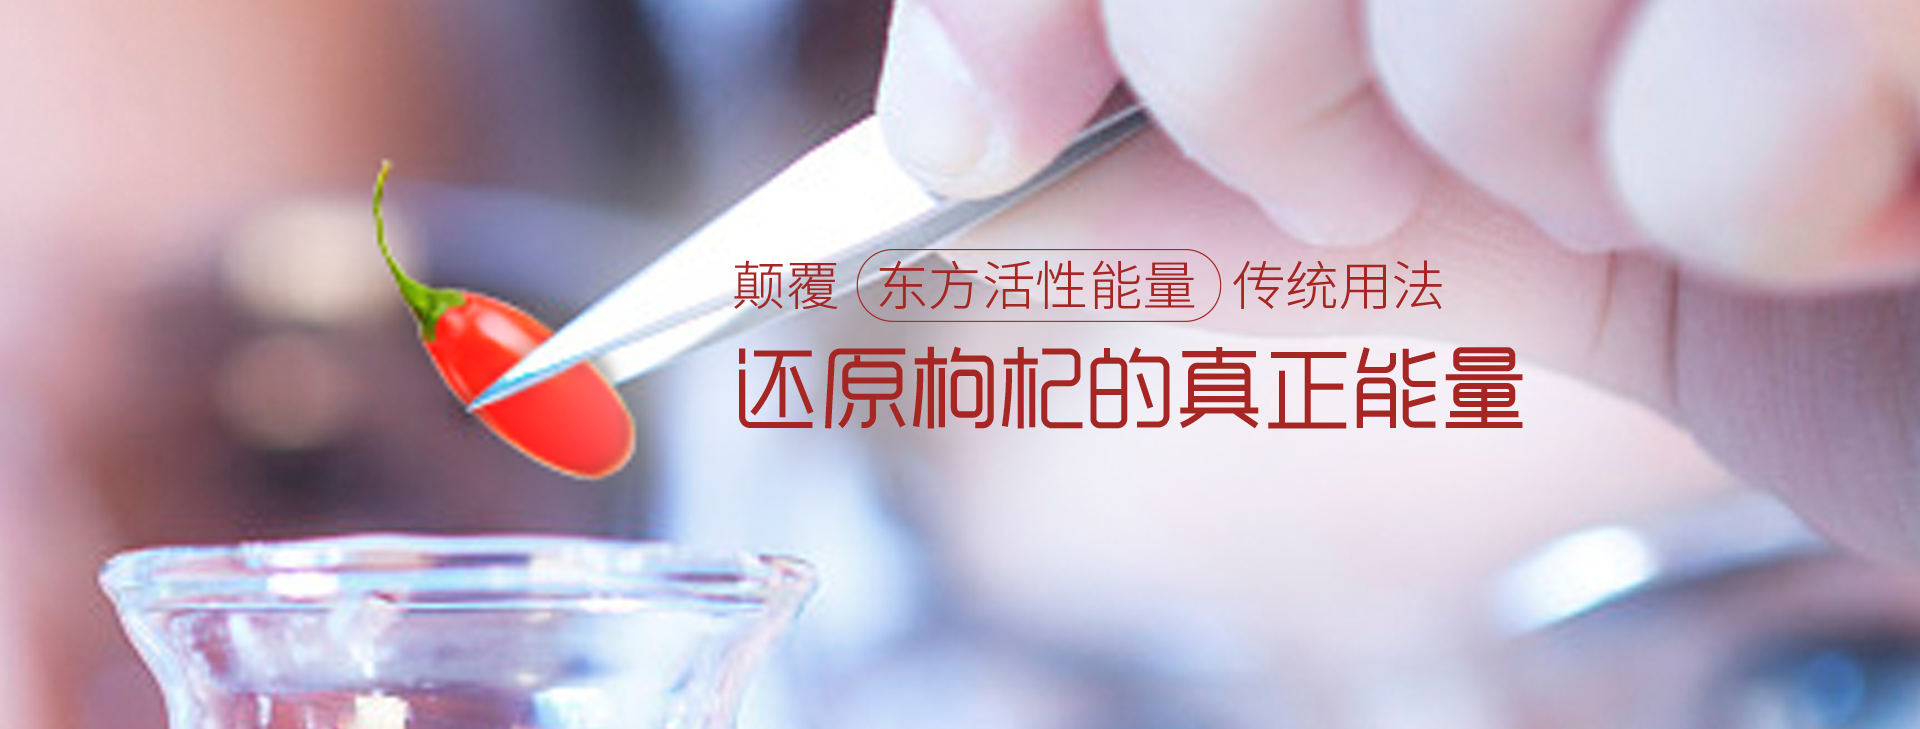
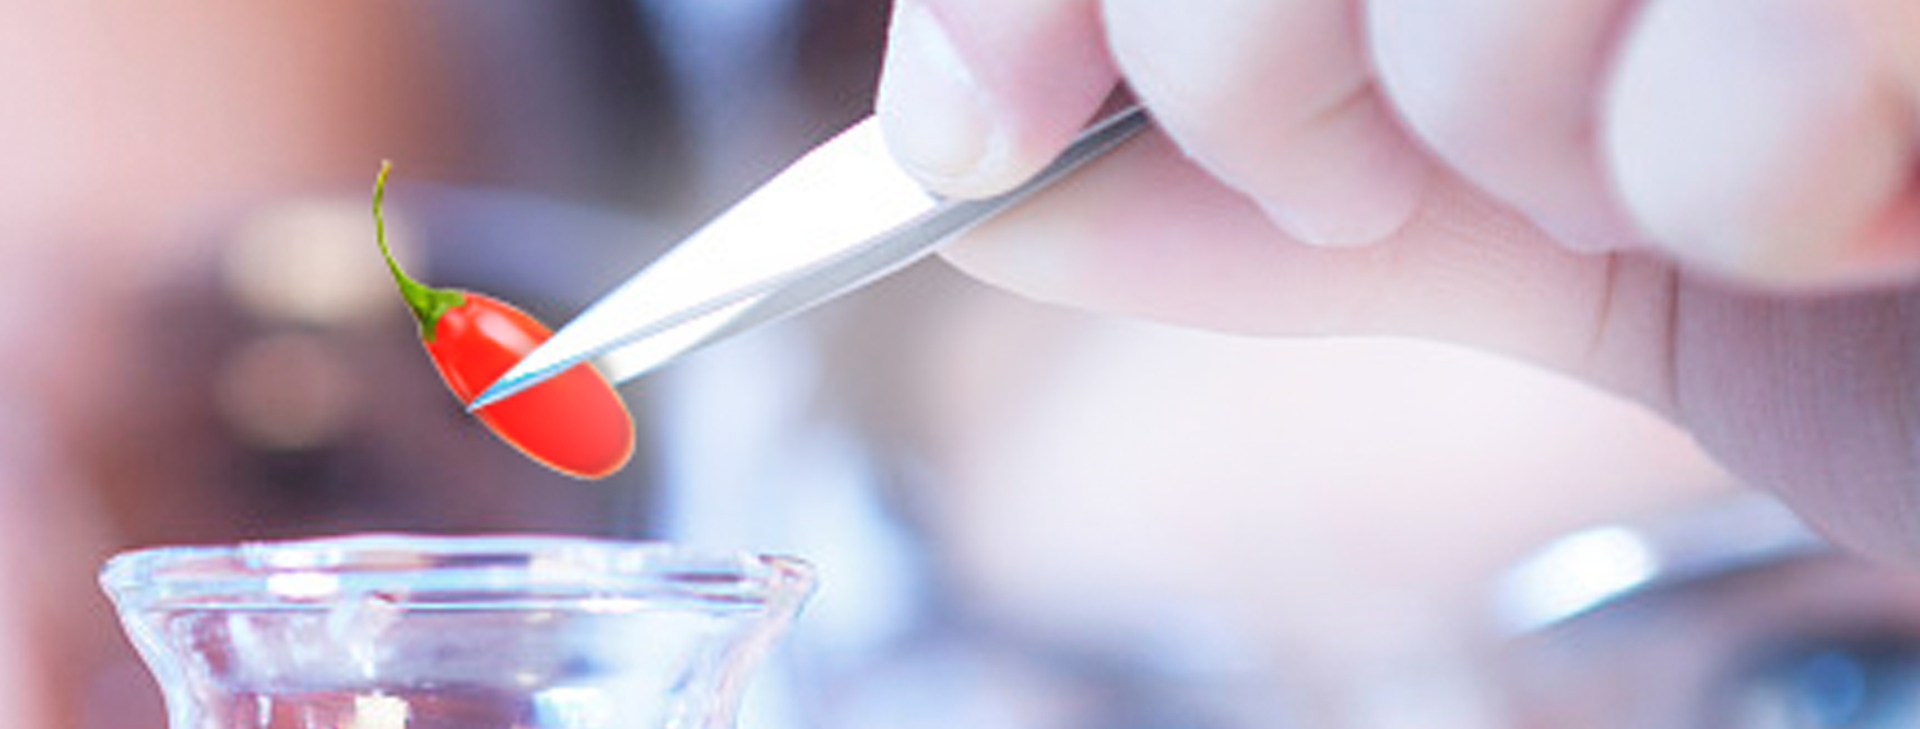
updata content
updata content

Changed region(s): [[0.375, 0.4527, 0.8125, 0.6036], [0.375, 0.332, 0.75, 0.4527]]

diff --git a/zaokan/js/wow.min.js b/zaokan/js/wow.min.js
@@ -1,0 +1,2 @@
+/*! WOW - v1.1.2 - 2015-04-07
+* Copyright (c) 2015 Matthieu Aussaguel; Licensed MIT */(function(){var a,b,c,d,e,f=function(a,b){return function(){return a.apply(b,arguments)}},g=[].indexOf||function(a){for(var b=0,c=this.length;c>b;b++)if(b in this&&this[b]===a)return b;return-1};b=function(){function a(){}return a.prototype.extend=function(a,b){var c,d;for(c in b)d=b[c],null==a[c]&&(a[c]=d);return a},a.prototype.isMobile=function(a){return/Android|webOS|iPhone|iPad|iPod|BlackBerry|IEMobile|Opera Mini/i.test(a)},a.prototype.createEvent=function(a,b,c,d){var e;return null==b&&(b=!1),null==c&&(c=!1),null==d&&(d=null),null!=document.createEvent?(e=document.createEvent("CustomEvent"),e.initCustomEvent(a,b,c,d)):null!=document.createEventObject?(e=document.createEventObject(),e.eventType=a):e.eventName=a,e},a.prototype.emitEvent=function(a,b){return null!=a.dispatchEvent?a.dispatchEvent(b):b in(null!=a)?a[b]():"on"+b in(null!=a)?a["on"+b]():void 0},a.prototype.addEvent=function(a,b,c){return null!=a.addEventListener?a.addEventListener(b,c,!1):null!=a.attachEvent?a.attachEvent("on"+b,c):a[b]=c},a.prototype.removeEvent=function(a,b,c){return null!=a.removeEventListener?a.removeEventListener(b,c,!1):null!=a.detachEvent?a.detachEvent("on"+b,c):delete a[b]},a.prototype.innerHeight=function(){return"innerHeight"in window?window.innerHeight:document.documentElement.clientHeight},a}(),c=this.WeakMap||this.MozWeakMap||(c=function(){function a(){this.keys=[],this.values=[]}return a.prototype.get=function(a){var b,c,d,e,f;for(f=this.keys,b=d=0,e=f.length;e>d;b=++d)if(c=f[b],c===a)return this.values[b]},a.prototype.set=function(a,b){var c,d,e,f,g;for(g=this.keys,c=e=0,f=g.length;f>e;c=++e)if(d=g[c],d===a)return void(this.values[c]=b);return this.keys.push(a),this.values.push(b)},a}()),a=this.MutationObserver||this.WebkitMutationObserver||this.MozMutationObserver||(a=function(){function a(){"undefined"!=typeof console&&null!==console&&console.warn("MutationObserver is not supported by your browser."),"undefined"!=typeof console&&null!==console&&console.warn("WOW.js cannot detect dom mutations, please call .sync() after loading new content.")}return a.notSupported=!0,a.prototype.observe=function(){},a}()),d=this.getComputedStyle||function(a){return this.getPropertyValue=function(b){var c;return"float"===b&&(b="styleFloat"),e.test(b)&&b.replace(e,function(a,b){return b.toUpperCase()}),(null!=(c=a.currentStyle)?c[b]:void 0)||null},this},e=/(\-([a-z]){1})/g,this.WOW=function(){function e(a){null==a&&(a={}),this.scrollCallback=f(this.scrollCallback,this),this.scrollHandler=f(this.scrollHandler,this),this.resetAnimation=f(this.resetAnimation,this),this.start=f(this.start,this),this.scrolled=!0,this.config=this.util().extend(a,this.defaults),this.animationNameCache=new c,this.wowEvent=this.util().createEvent(this.config.boxClass)}return e.prototype.defaults={boxClass:"wow",animateClass:"animated",offset:0,mobile:!0,live:!0,callback:null},e.prototype.init=function(){var a;return this.element=window.document.documentElement,"interactive"===(a=document.readyState)||"complete"===a?this.start():this.util().addEvent(document,"DOMContentLoaded",this.start),this.finished=[]},e.prototype.start=function(){var b,c,d,e;if(this.stopped=!1,this.boxes=function(){var a,c,d,e;for(d=this.element.querySelectorAll("."+this.config.boxClass),e=[],a=0,c=d.length;c>a;a++)b=d[a],e.push(b);return e}.call(this),this.all=function(){var a,c,d,e;for(d=this.boxes,e=[],a=0,c=d.length;c>a;a++)b=d[a],e.push(b);return e}.call(this),this.boxes.length)if(this.disabled())this.resetStyle();else for(e=this.boxes,c=0,d=e.length;d>c;c++)b=e[c],this.applyStyle(b,!0);return this.disabled()||(this.util().addEvent(window,"scroll",this.scrollHandler),this.util().addEvent(window,"resize",this.scrollHandler),this.interval=setInterval(this.scrollCallback,50)),this.config.live?new a(function(a){return function(b){var c,d,e,f,g;for(g=[],c=0,d=b.length;d>c;c++)f=b[c],g.push(function(){var a,b,c,d;for(c=f.addedNodes||[],d=[],a=0,b=c.length;b>a;a++)e=c[a],d.push(this.doSync(e));return d}.call(a));return g}}(this)).observe(document.body,{childList:!0,subtree:!0}):void 0},e.prototype.stop=function(){return this.stopped=!0,this.util().removeEvent(window,"scroll",this.scrollHandler),this.util().removeEvent(window,"resize",this.scrollHandler),null!=this.interval?clearInterval(this.interval):void 0},e.prototype.sync=function(){return a.notSupported?this.doSync(this.element):void 0},e.prototype.doSync=function(a){var b,c,d,e,f;if(null==a&&(a=this.element),1===a.nodeType){for(a=a.parentNode||a,e=a.querySelectorAll("."+this.config.boxClass),f=[],c=0,d=e.length;d>c;c++)b=e[c],g.call(this.all,b)<0?(this.boxes.push(b),this.all.push(b),this.stopped||this.disabled()?this.resetStyle():this.applyStyle(b,!0),f.push(this.scrolled=!0)):f.push(void 0);return f}},e.prototype.show=function(a){return this.applyStyle(a),a.className=a.className+" "+this.config.animateClass,null!=this.config.callback&&this.config.callback(a),this.util().emitEvent(a,this.wowEvent),this.util().addEvent(a,"animationend",this.resetAnimation),this.util().addEvent(a,"oanimationend",this.resetAnimation),this.util().addEvent(a,"webkitAnimationEnd",this.resetAnimation),this.util().addEvent(a,"MSAnimationEnd",this.resetAnimation),a},e.prototype.applyStyle=function(a,b){var c,d,e;return d=a.getAttribute("data-wow-duration"),c=a.getAttribute("data-wow-delay"),e=a.getAttribute("data-wow-iteration"),this.animate(function(f){return function(){return f.customStyle(a,b,d,c,e)}}(this))},e.prototype.animate=function(){return"requestAnimationFrame"in window?function(a){return window.requestAnimationFrame(a)}:function(a){return a()}}(),e.prototype.resetStyle=function(){var a,b,c,d,e;for(d=this.boxes,e=[],b=0,c=d.length;c>b;b++)a=d[b],e.push(a.style.visibility="visible");return e},e.prototype.resetAnimation=function(a){var b;return a.type.toLowerCase().indexOf("animationend")>=0?(b=a.target||a.srcElement,b.className=b.className.replace(this.config.animateClass,"").trim()):void 0},e.prototype.customStyle=function(a,b,c,d,e){return b&&this.cacheAnimationName(a),a.style.visibility=b?"hidden":"visible",c&&this.vendorSet(a.style,{animationDuration:c}),d&&this.vendorSet(a.style,{animationDelay:d}),e&&this.vendorSet(a.style,{animationIterationCount:e}),this.vendorSet(a.style,{animationName:b?"none":this.cachedAnimationName(a)}),a},e.prototype.vendors=["moz","webkit"],e.prototype.vendorSet=function(a,b){var c,d,e,f;d=[];for(c in b)e=b[c],a[""+c]=e,d.push(function(){var b,d,g,h;for(g=this.vendors,h=[],b=0,d=g.length;d>b;b++)f=g[b],h.push(a[""+f+c.charAt(0).toUpperCase()+c.substr(1)]=e);return h}.call(this));return d},e.prototype.vendorCSS=function(a,b){var c,e,f,g,h,i;for(h=d(a),g=h.getPropertyCSSValue(b),f=this.vendors,c=0,e=f.length;e>c;c++)i=f[c],g=g||h.getPropertyCSSValue("-"+i+"-"+b);return g},e.prototype.animationName=function(a){var b;try{b=this.vendorCSS(a,"animation-name").cssText}catch(c){b=d(a).getPropertyValue("animation-name")}return"none"===b?"":b},e.prototype.cacheAnimationName=function(a){return this.animationNameCache.set(a,this.animationName(a))},e.prototype.cachedAnimationName=function(a){return this.animationNameCache.get(a)},e.prototype.scrollHandler=function(){return this.scrolled=!0},e.prototype.scrollCallback=function(){var a;return!this.scrolled||(this.scrolled=!1,this.boxes=function(){var b,c,d,e;for(d=this.boxes,e=[],b=0,c=d.length;c>b;b++)a=d[b],a&&(this.isVisible(a)?this.show(a):e.push(a));return e}.call(this),this.boxes.length||this.config.live)?void 0:this.stop()},e.prototype.offsetTop=function(a){for(var b;void 0===a.offsetTop;)a=a.parentNode;for(b=a.offsetTop;a=a.offsetParent;)b+=a.offsetTop;return b},e.prototype.isVisible=function(a){var b,c,d,e,f;return c=a.getAttribute("data-wow-offset")||this.config.offset,f=window.pageYOffset,e=f+Math.min(this.element.clientHeight,this.util().innerHeight())-c,d=this.offsetTop(a),b=d+a.clientHeight,e>=d&&b>=f},e.prototype.util=function(){return null!=this._util?this._util:this._util=new b},e.prototype.disabled=function(){return!this.config.mobile&&this.util().isMobile(navigator.userAgent)},e}()}).call(this);

diff --git a/zaokan/ddfgm.html b/zaokan/ddfgm.html
@@ -8,6 +8,7 @@
   <link rel="stylesheet" href="css/swiper.min.css">
   <link rel="stylesheet" href="css/bootstrap.css">
   <link rel="stylesheet" type="text/css" href="css/common.css">
+  <link rel="stylesheet" type="text/css" href="css/animate.min.css">
 <!--[if lte IE 9]>
   <script src="js/html5shiv.min.js"></script>
   <script src="js/respond.min.js"></script>
@@ -94,8 +95,6 @@
   color: #a62624;font-size: 24px;}
   .ddfgm-thr{ letter-spacing: 3px;
   color: #a62624;font-size: 24px;margin:20px 0 57px;}
-  .hxnl-ons{width:100%}
-  .hxnl-ons img{width:100%;max-width:100%;}
 
   .ddfgm-two{width:100%}
   .ddfgm-two img{width:100%;max-width:100%;}
@@ -105,9 +104,29 @@
 
 
 
+<style type="text/css">
+  .ddfgm-t{height:729px;width:100%;background:url(img/h31.png) no-repeat center center;}
+  .ddfgm-t .container{display:table;height:100%;}
+  .ddfgm-t .container .row{display:table-cell;vertical-align:middle;}
+  .ddfgm-t .container .row .rowsss{display:table;float:right;}
+  .ddfgm-t .container .row .ddfgm-twos-dd{margin-top:24px;} 
+</style>
 
 
-<div class="hxnl-ons"><img src="img/h31.png" /></div>
+<div class="ddfgm-t">
+    <div class="container">
+      <div class="row">
+        <div class="rowsss">
+          <div class="ddfgm-twos-d wow fadeInDown"><img src="img/h193.png" class="img-responsive" style="margin:0 auto;display:inline-block;" /></div>
+          <div class="ddfgm-twos-dd wow fadeInDown"><img src="img/h194.png" class="img-responsive" style="margin:0 auto;display:inline-block;" /></div>
+        </div>
+      </div>
+    </div>
+</div>
+
+
+
+
 
 
 
@@ -285,7 +304,45 @@
   <div class="text-center ddfgm-six-cc"><img src="img/h44.png" class="img-responsive" style="margin:0 auto;" /></div>
 </div>
 
-<div class="ddfgm-two"><img src="img/h35.png" /></div>
+
+
+
+
+
+
+
+
+<style type="text/css">
+  .ddfgm-twwooo{height:795px;width:100%;background:url(img/h35.png) no-repeat center center;}
+  .ddfgm-twwooo .container{display:table;height:100%;}
+  .ddfgm-twwooo .container .row{display:table-cell;vertical-align:middle;}
+  .ddfgm-twwooo .container .row .rowsss{display:table;float:left;margin-top:-278px;}
+  .ddfgm-twwooo .container .row .ddfgm-twos-dd{margin-top:24px;} 
+</style>
+
+
+<div class="ddfgm-twwooo">
+    <div class="container">
+      <div class="row">
+        <div class="rowsss">
+          <div class="ddfgm-twos-d"><img src="img/h187.png" class="img-responsive" style="margin:0 auto;display:inline-block;" /></div>
+          <div class="ddfgm-twos-dd"><img src="img/h188.png" class="img-responsive" style="margin:0 auto;display:inline-block;" /></div>
+        </div>
+      </div>
+    </div>
+</div>
+
+
+
+
+
+
+
+
+
+
+
+
 
 <div class="ddfgm-sev">
   <div class="text-center ddfgm-sev-f">每一瓶早康•480鲜杞原液均由480颗鲜枸杞浓缩而成，相当于24000颗干枸杞（20kg）的全部</div>
@@ -294,7 +351,42 @@
   <div class="text-center ddfgm-sev-ff">图示仅原浆营养即在干果营养2倍以上，原液营养为在原浆基础上再进行分离精萃。</div>
 </div>
 
-<div class="ddfgm-two"><img src="img/h36.png" /></div>
+
+
+
+
+
+
+
+
+<style type="text/css">
+  .ddfgm-twwoooo{height:749px;width:100%;background:url(img/h36.png) no-repeat center center;}
+  .ddfgm-twwoooo .container{display:table;height:100%;}
+  .ddfgm-twwoooo .container .row{display:table-cell;vertical-align:middle;}
+  .ddfgm-twwoooo .container .row .rowsss{display:table;float:left;margin-top:-278px;}
+  .ddfgm-twwoooo .container .row .ddfgm-twos-dd{margin-top:24px;} 
+</style>
+
+
+<div class="ddfgm-twwoooo">
+    <div class="container">
+      <div class="row">
+        <div class="rowsss">
+          <div class="ddfgm-twos-d"><img src="img/h189.png" class="img-responsive" style="margin:0 auto;display:inline-block;" /></div>
+          <div class="ddfgm-twos-dd"><img src="img/h190.png" class="img-responsive" style="margin:0 auto;display:inline-block;" /></div>
+        </div>
+      </div>
+    </div>
+</div>
+
+
+
+
+
+
+
+
+
 
 
 <div class="ddfgm-eig">
@@ -303,9 +395,26 @@
 </div>
 
 
+<style type="text/css">
+  .ddfgm-twwooooo{height:764px;width:100%;background:url(img/h37.png) no-repeat center center;}
+  .ddfgm-twwooooo .container{display:table;height:100%;}
+  .ddfgm-twwooooo .container .row{display:table-cell;vertical-align:middle;}
+  .ddfgm-twwooooo .container .row .rowsss{display:table;float:left;margin-top:-278px;}
+  .ddfgm-twwooooo .container .row .ddfgm-twos-dd{margin-top:24px;} 
+</style>
 
 
-<div class="ddfgm-two"><img src="img/h37.png" /></div>
+<div class="ddfgm-twwooooo">
+    <div class="container">
+      <div class="row">
+        <div class="rowsss">
+          <div class="ddfgm-twos-d"><img src="img/h191.png" class="img-responsive" style="margin:0 auto;display:inline-block;" /></div>
+          <div class="ddfgm-twos-dd"><img src="img/h192.png" class="img-responsive" style="margin:0 auto;display:inline-block;" /></div>
+        </div>
+      </div>
+    </div>
+</div>
+
 
 <div class="ddfgm-eig">
   <div class="text-center">借助小分子化的多通道吸收及高浓缩的功能因子，</div>
@@ -368,12 +477,18 @@
 
 <!-- 底部 -->
 
-
+<!-- http://www.dowebok.com/demo/2014/98/ -->
 <script type="text/javascript" src="js/placeholders.min.js"></script>
 <script src="js/jquery.min.js"></script>
 <script src="js/bootstrap.js"></script>
 <script type="text/javascript" src="js/homejquery.js"></script>
 <script src="js/swiper.min.js"></script>
+<script type="text/javascript" src="js/wow.min.js"></script>
+<script type="text/javascript">
+  if (!(/msie [6|7|8|9]/i.test(navigator.userAgent))){
+  new WOW().init();
+  };
+</script>
 
 </body>
 </html>
